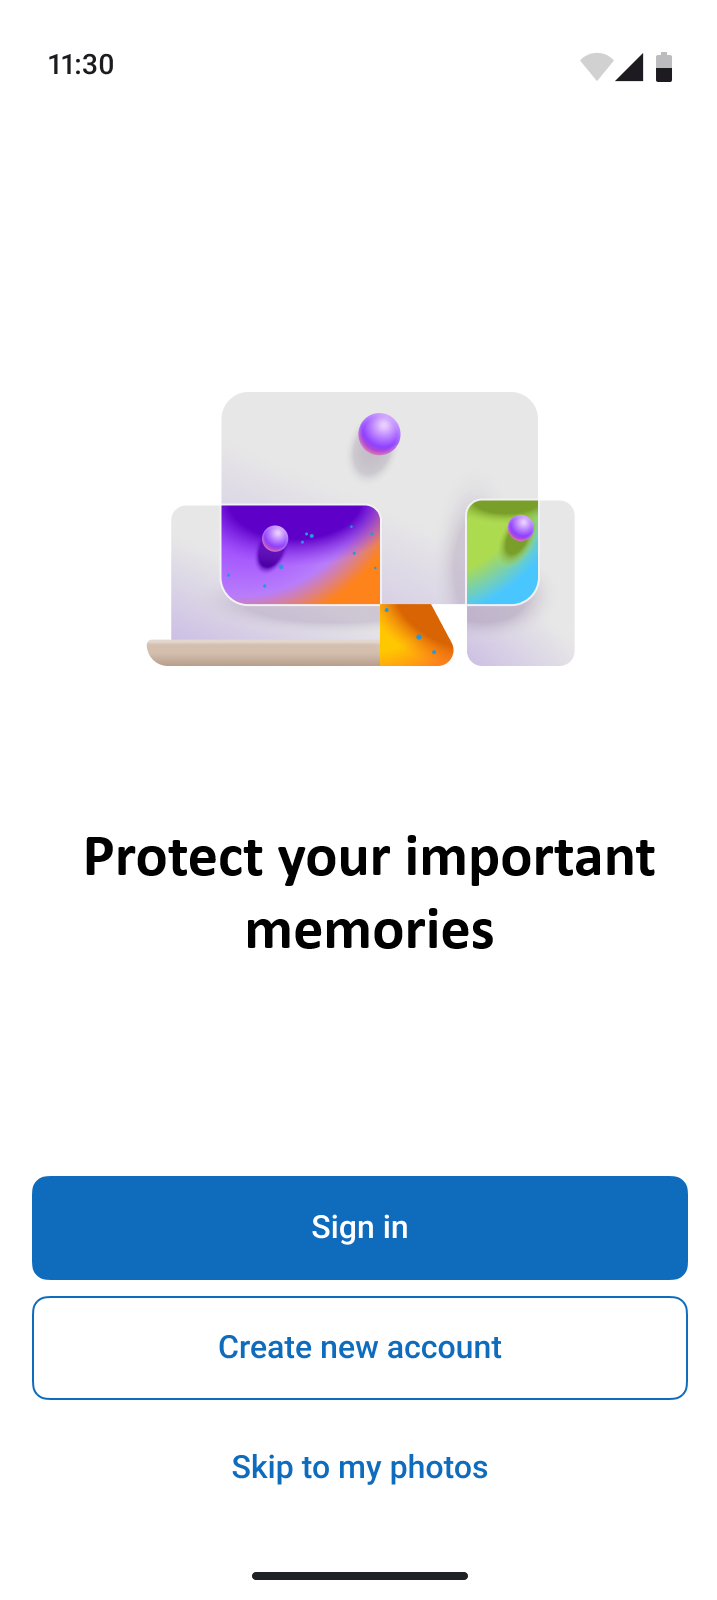
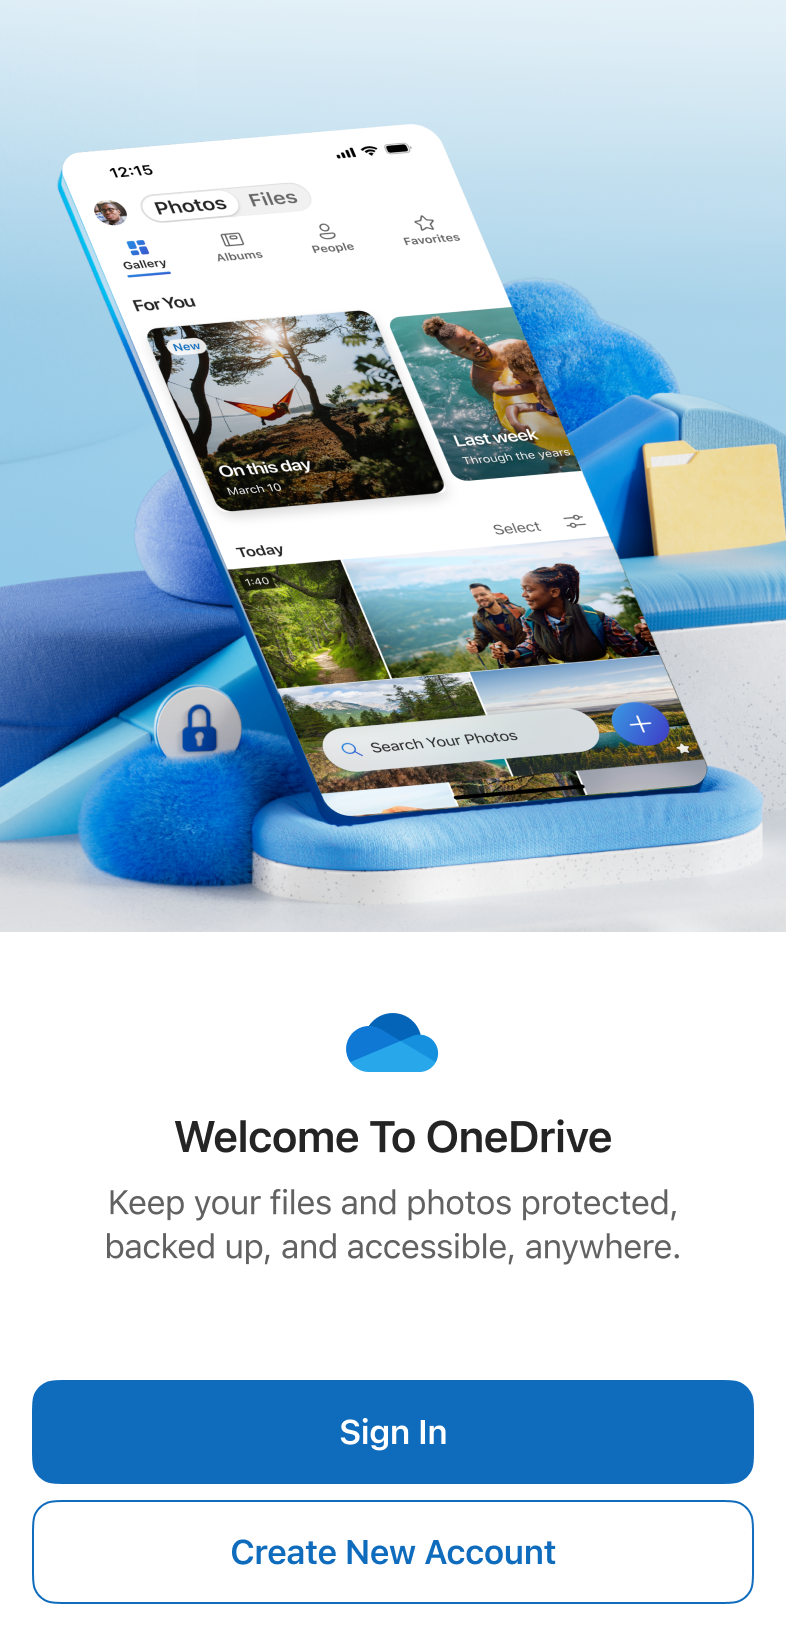
Update sign-in and overquota notification assets
- Updated 1a-banner-1-planned_1-1.png with new design
- Added 1a-banner-1-planned_1-2.png for sign-in page with real photos
- Added OQb overquota notification mockups (planned_1 and planned_2)
- Updated scenarios 1a, 1b, 1c, 1d to use new sign-in assets
- Added OQa and OQb scenarios to asset mapping
- Updated scenario documentation in markdown

diff --git a/index.html b/index.html
@@ -915,24 +915,28 @@
                 { path: 'assets/1a-banner-1-done_2.png', type: 'banner', status: 'done', step: 2, label: 'System Permission Dialog' },
                 { path: 'assets/1a-banner-1-done_3.png', type: 'banner', status: 'done', step: 3, label: 'Notification Setup' },
                 { path: 'assets/1a-banner-1-done_4.png', type: 'banner', status: 'done', step: 4, label: 'SSO Sign-in' },
-                { path: 'assets/1a-banner-1-planned_1-1.png', type: 'banner', status: 'planned', step: 1, label: 'Sign-in Page (Stock Photo)' }
+                { path: 'assets/1a-banner-1-planned_1-1.png', type: 'banner', status: 'planned', step: 1, label: 'Sign-in Page (Stock Photo)' },
+                { path: 'assets/1a-banner-1-planned_1-2.png', type: 'banner', status: 'planned', step: 2, label: 'Sign-in Page (Real Photos)' }
             ],
             '1b': [
                 { path: 'assets/1b-push-1-done_1.png', type: 'push', status: 'done', step: 1 },
                 { path: 'assets/1b-push-1-done_2.png', type: 'push', status: 'done', step: 2 },
-                { path: 'assets/1a-banner-1-done_4.png', type: 'banner', status: 'planned', step: 1, label: 'SSO Sign-in' }
+                { path: 'assets/1a-banner-1-planned_1-1.png', type: 'banner', status: 'planned', step: 1, label: 'Sign-in Page (Stock Photo)' },
+                { path: 'assets/1a-banner-1-planned_1-2.png', type: 'banner', status: 'planned', step: 2, label: 'Sign-in Page (Real Photos)' }
             ],
             '1c': [
                 { path: 'assets/1c-modal-1-done_1.png', type: 'modal', status: 'done', step: 1 },
                 { path: 'assets/1c-modal-1-done_2.png', type: 'modal', status: 'done', step: 2 },
                 { path: 'assets/1d-push-1-done_3.png', type: 'push', status: 'done', step: 3 },
-                { path: 'assets/1a-banner-1-done_4.png', type: 'banner', status: 'planned', step: 1, label: 'SSO Sign-in' }
+                { path: 'assets/1a-banner-1-planned_1-1.png', type: 'banner', status: 'planned', step: 1, label: 'Sign-in Page (Stock Photo)' },
+                { path: 'assets/1a-banner-1-planned_1-2.png', type: 'banner', status: 'planned', step: 2, label: 'Sign-in Page (Real Photos)' }
             ],
             '1d': [
                 { path: 'assets/1d-push-1-done_1.png', type: 'push', status: 'done', step: 1 },
                 { path: 'assets/1d-push-1-done_2.png', type: 'push', status: 'done', step: 2 },
                 { path: 'assets/1d-push-1-done_3.png', type: 'push', status: 'done', step: 3 },
-                { path: 'assets/1a-banner-1-done_4.png', type: 'banner', status: 'planned', step: 1, label: 'SSO Sign-in' }
+                { path: 'assets/1a-banner-1-planned_1-1.png', type: 'banner', status: 'planned', step: 1, label: 'Sign-in Page (Stock Photo)' },
+                { path: 'assets/1a-banner-1-planned_1-2.png', type: 'banner', status: 'planned', step: 2, label: 'Sign-in Page (Real Photos)' }
             ],
             '2a': [
                 { path: 'assets/2a-banner-1-planned_1.png', type: 'banner', status: 'planned', step: 1 },
@@ -1104,6 +1108,11 @@
                 { path: 'assets/5a-banner-1-planned_2.png', type: 'banner', status: 'planned', step: 4, label: 'Sign-in Prompt' },
                 { path: 'assets/1a-banner-1-done_4.png', type: 'banner', status: 'done', step: 5, label: 'SSO Sign-in' },
                 { path: 'assets/5a-banner-1-planned_3.png', type: 'banner', status: 'planned', step: 6, label: 'CRB Setup' }
+            ],
+            'OQa': [],
+            'OQb': [
+                { path: 'assets/OQb-notification-1-planned_1.png', type: 'notification', status: 'planned', step: 1, label: 'Overquota Push Notification' },
+                { path: 'assets/OQb-notification-1-planned_2.png', type: 'notification', status: 'planned', step: 2, label: 'Overquota In-App' }
             ]
         };
 

diff --git a/samsung-user-scenarios.md b/samsung-user-scenarios.md
@@ -78,10 +78,10 @@ To fully use OneDrive as a photo management app, users must:
 | # | PDF | PFA | NP | SGS | SI | CRB | Paid | OQ | Segment Name | Funnel Goal | Notification Sequence | What's Already Been Done (either in beta or prod) | What's Left to Do |
 |---|:---:|:---:|:--:|:---:|:--:|:---:|:----:|:--:|--------------|-------------|----------------------|--------------------------|-------------------|
 | 0 | ✖ | ✖ | ✖ | ✅ | ✖ | ✖ | ✖ | ✖ | Former SGS (Switched Device) | Re-engage via email | Email only | | Service mail scheduled for 2/27|
-| 1a | ❌ | ❌ | ❌ | ❌ | ❌ | ❌ | ❌ | ❌ | Dormant Install (No Permissions) | Grant permissions → Sign in | In-app only | SSO experience with other MSA accounts on device | Improved Sign-in page with Photos value prop |
-| 1b | ❌ | ❌ | ✅ | ❌ | ❌ | ❌ | ❌ | ❌ | Dormant Install (NP Only) | Sign in | Push, In-app | Push notifications to users on OneDrive value prop. Encourage user to sign in. | SSO sign-in experience |
-| 1c | ❌ | ✅ | ❌ | ❌ | ❌ | ❌ | ❌ | ❌ | Dormant Install (PFA Only) | Grant NP → Sign in | In-app only | Turned on local MOJs for OTD and optimized sign-in flow by adding 1 more step to the disable flow | SSO sign-in experience |
-| 1d | ❌ | ✅ | ✅ | ❌ | ❌ | ❌ | ❌ | ❌ | Dormant Install (Both Permissions) | Sign in | Push, In-app | Local MOJ notifications increased in frequency; Push notifications to users on OneDrive value prop and encourage users to sign in. | SSO sign-in experience to match 1c |
+| 1a | ❌ | ❌ | ❌ | ❌ | ❌ | ❌ | ❌ | ❌ | Dormant Install (No Permissions) | Grant permissions → Sign in | In-app only | SSO experience with other MSA accounts on device; Improved Sign-in page mockups (1a-banner-1-planned_1-1, 1a-banner-1-planned_1-2) | |
+| 1b | ❌ | ❌ | ✅ | ❌ | ❌ | ❌ | ❌ | ❌ | Dormant Install (NP Only) | Sign in | Push, In-app | Push notifications to users on OneDrive value prop. Encourage user to sign in; Improved Sign-in page mockups (1a-banner-1-planned_1-1, 1a-banner-1-planned_1-2) | |
+| 1c | ❌ | ✅ | ❌ | ❌ | ❌ | ❌ | ❌ | ❌ | Dormant Install (PFA Only) | Grant NP → Sign in | In-app only | Turned on local MOJs for OTD and optimized sign-in flow by adding 1 more step to the disable flow; Improved Sign-in page mockups (1a-banner-1-planned_1-1, 1a-banner-1-planned_1-2) | |
+| 1d | ❌ | ✅ | ✅ | ❌ | ❌ | ❌ | ❌ | ❌ | Dormant Install (Both Permissions) | Sign in | Push, In-app | Local MOJ notifications increased in frequency; Push notifications to users on OneDrive value prop and encourage users to sign in; Improved Sign-in page mockups (1a-banner-1-planned_1-1, 1a-banner-1-planned_1-2) | |
 | 2a | ✅ | ❌ | ❌ | ❌ | ❌ | ❌ | ❌ | ❌ | PDF-Only (No Permissions) | Grant permissions → Sign in | In-app only | | "Medium"-like banner + sign-in flow |
 | 2b | ✅ | ❌ | ✅ | ❌ | ❌ | ❌ | ❌ | ❌ | PDF-Only (NP Only) | Sign in | Push, In-app | Same as 1b | Same as 1b |
 | 2c | ✅ | ✅ | ❌ | ❌ | ❌ | ❌ | ❌ | ❌ | PDF-Only (PFA Only) | Grant NP → Sign in | In-app only | Same as 1c | Same as 1c |
@@ -129,7 +129,7 @@ To fully use OneDrive as a photo management app, users must:
 | 16a | ❌ | ✅ | ❌ | ✅ | ✅ | ❌ | ✅ | ❌ | Paid SGS, No CRB (No NP) | Enable CRB | In-app, Email | Same as 4a | Same as 4a |
 | 16b | ❌ | ✅ | ✅ | ✅ | ✅ | ❌ | ✅ | ❌ | Paid SGS, No CRB (Full Permissions) | Enable CRB | Push, In-app, Email | Same as 3d | Same as 3d |
 | OQa | ⚪ | ⚪ | ⚪ | ⚪ | ❌ | ⚪ | ⚪ | ✅ | Over Quota (Not Signed In) | Upsell to Paid | Email only | Overquota emails | |
-| OQb | ⚪ | ⚪ | ⚪ | ⚪ | ✅ | ⚪ | ⚪ | ✅ | Over Quota (Signed In) | Upsell to Paid | Push, In-app, Email | Overquota emails | Overquota push notifications |
+| OQb | ⚪ | ⚪ | ⚪ | ⚪ | ✅ | ⚪ | ⚪ | ✅ | Over Quota (Signed In) | Upsell to Paid | Push, In-app, Email | Overquota emails | Overquota push notifications (OQb-notification-1-planned_1, OQb-notification-1-planned_2) |
 
 ---
 
